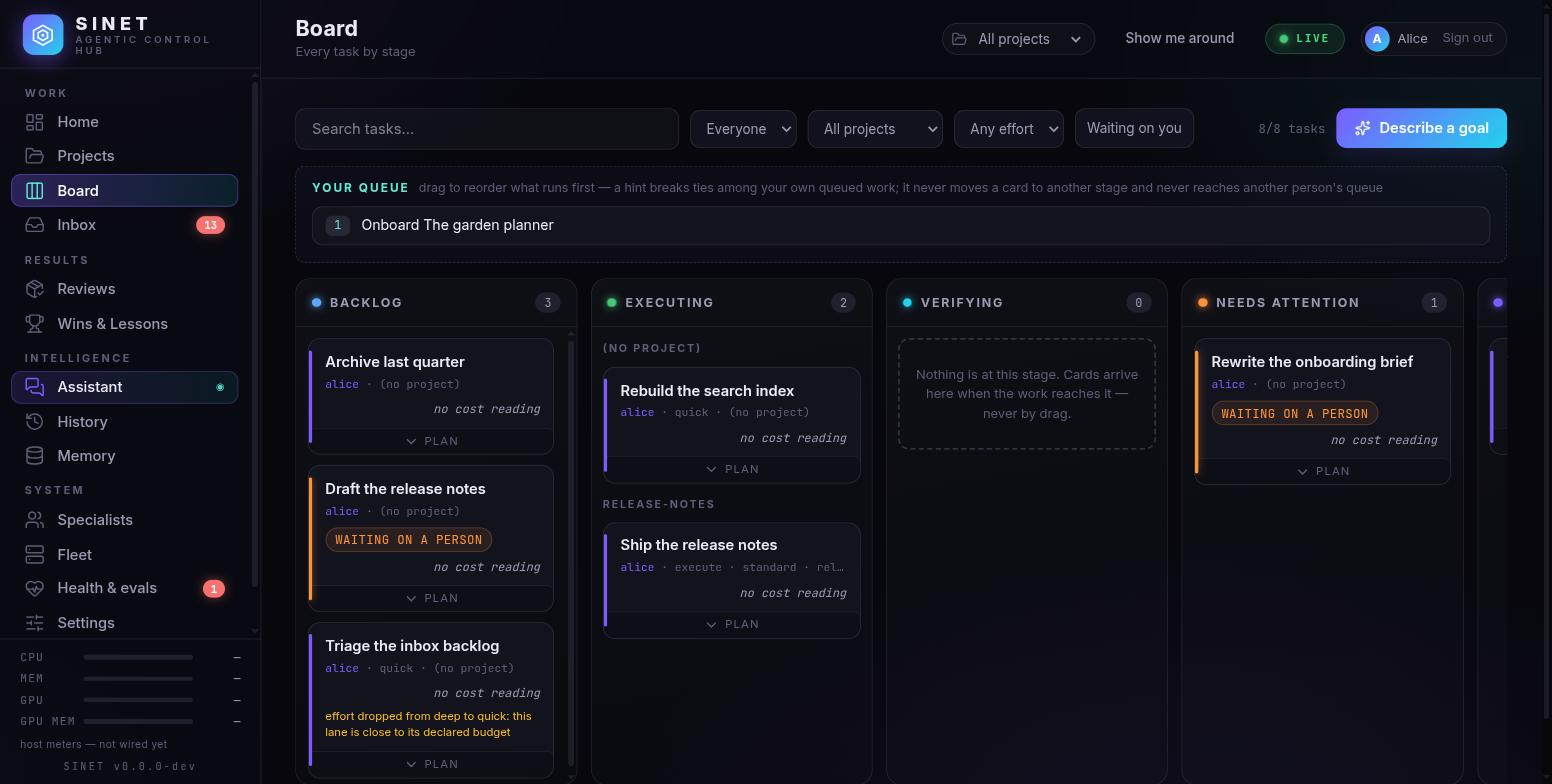
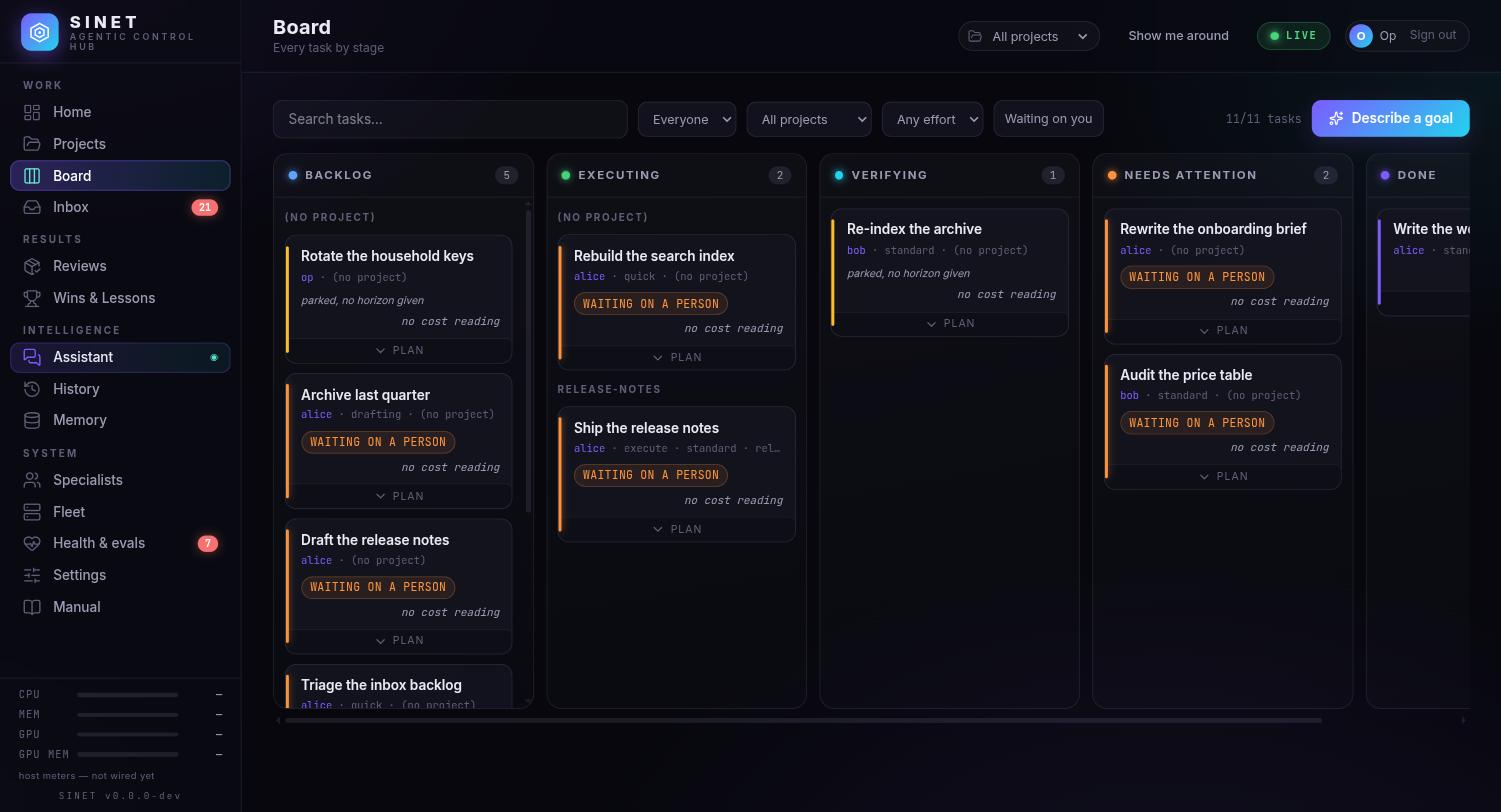
P3 rework step 2 (checkpoint-3 world): journey re-walked on the remedied tree; operator-facing copy tells the inert-seed truth
Live Chrome walk on the RW-4..7 tree (c5e15e5), fresh --clean world:
- create project (garden-guide) -> onboarding task born in Backlog NAMED
  under its project, lands visibly in Done at approval (RW-7 as pixels;
  two NEW shots: board-backlog-onboarding, board-done-onboarding)
- give-work door pinned via the project button; interview walked at
  human pace: 4 rounds over ~11 min spanning three 5-min recovery
  sweeps, run alive throughout (RW-5 as lived behavior)
- second goal force-proceeded -> plan card (assumptions listed, honest
  cost + degraded-marked seat) -> PIN step-up approve -> board rode
  executing->verifying->Done under GARDEN-GUIDE -> overlay card with
  stage story, receipts, deliverable revision (16 PNGs refreshed,
  4 new; 4 stand unchanged)

Copy: B6-clickthrough.sh step-1/2 and B6-walkthrough.html (joins the
tree; STATE 2026-08-11 names both the builder's in-flight operator
files) now describe the ladder-inert world: 0 running / 0 queued BY
DESIGN, 9 parked with open asks + 1 done, five bounded columns, no
moonshot. The operator's uncommitted script edit stays uncommitted;
only the builder's wording rides this commit.

Board.tsx: card faces render the stage FAMILY - a live intake run
serves its internal FSM step id ("intake.state") where seeded rows
serve plain words; live-walk finding. tsc 0, vitest 710/710.

Backend defects found live are REPORTED, not fixed here (planner
result-text loss + strand, onboard ask served without an action
[…]

diff --git a/P3/gates/B6-walkthrough.html b/P3/gates/B6-walkthrough.html
@@ -1,0 +1,293 @@
+<!doctype html>
+<html lang="en">
+<head>
+<meta charset="utf-8">
+<meta name="viewport" content="width=device-width, initial-scale=1">
+<title>B6 click-through — operator walkthrough</title>
+<style>
+  :root {
+    color-scheme: light dark;
+    --bg: #ffffff; --fg: #16181d; --muted: #5d6570; --line: #dfe3e8;
+    --card: #f7f8fa; --accent: #1f6feb; --good: #1a7f37; --bad: #b42318;
+    --warn: #8a5a00; --warn-bg: #fff8e6;
+  }
+  @media (prefers-color-scheme: dark) {
+    :root {
+      --bg: #0f1115; --fg: #e6e8eb; --muted: #99a1ad; --line: #272b33;
+      --card: #171a20; --accent: #6aa4ff; --good: #4ac26b; --bad: #ff6b5e;
+      --warn: #e8b339; --warn-bg: #221c0d;
+    }
+  }
+  * { box-sizing: border-box; }
+  body {
+    margin: 0; padding: 2.5rem 1.25rem 5rem; background: var(--bg); color: var(--fg);
+    font: 16px/1.6 ui-sans-serif, system-ui, -apple-system, "Segoe UI", sans-serif;
+  }
+  main { max-width: 62rem; margin: 0 auto; }
+  h1 { font-size: 1.75rem; margin: 0 0 .35rem; letter-spacing: -.02em; }
+  h2 { font-size: 1.15rem; margin: 2.5rem 0 .75rem; letter-spacing: -.01em; }
+  .sub { color: var(--muted); margin: 0 0 2rem; }
+  code, .mono { font-family: ui-monospace, SFMono-Regular, Menlo, Consolas, monospace; font-size: .875em; }
+  a { color: var(--accent); }
+  .box { background: var(--card); border: 1px solid var(--line); border-radius: 10px; padding: 1rem 1.15rem; margin: 1rem 0; }
+  .warn { background: var(--warn-bg); border-color: var(--warn); }
+  .warn b { color: var(--warn); }
+  table { border-collapse: collapse; width: 100%; margin: .75rem 0; }
+  th, td { text-align: left; padding: .5rem .6rem; border-bottom: 1px solid var(--line); vertical-align: top; }
+  th { font-size: .78rem; text-transform: uppercase; letter-spacing: .06em; color: var(--muted); font-weight: 600; }
+  .scroll { overflow-x: auto; }
+  ol.steps { list-style: none; counter-reset: s; padding: 0; margin: 0; }
+  ol.steps > li {
+    counter-increment: s; position: relative; padding: 1rem 0 1rem 3.25rem;
+    border-top: 1px solid var(--line);
+  }
+  ol.steps > li::before {
+    content: counter(s); position: absolute; left: 0; top: 1rem;
+    width: 2.15rem; height: 2.15rem; border-radius: 50%; background: var(--card);
+    border: 1px solid var(--line); display: grid; place-items: center;
+    font-variant-numeric: tabular-nums; font-weight: 600; color: var(--muted);
+  }
+  ol.steps > li.done::before { background: var(--good); border-color: var(--good); color: #fff; }
+  .head { display: flex; flex-wrap: wrap; gap: .5rem .75rem; align-items: baseline; }
+  .head h3 { margin: 0; font-size: 1rem; }
+  .look { margin: .45rem 0 0; }
+  .look li { margin: .2rem 0; }
+  .look .yes::marker { color: var(--good); }
+  .look .no::marker { color: var(--bad); }
+  label.chk { display: inline-flex; align-items: center; gap: .4rem; color: var(--muted); font-size: .85rem; cursor: pointer; margin-left: auto; }
+  .pin { font-size: 1.05rem; }
+  .pin b { font-size: 1.15rem; letter-spacing: .02em; }
+  footer { margin-top: 3rem; padding-top: 1.25rem; border-top: 1px solid var(--line); color: var(--muted); font-size: .9rem; }
+</style>
+</head>
+<body>
+<main>
+
+<h1>B6 click-through — operator walkthrough</h1>
+<p class="sub">
+  Everything you need to run the gate without looking anything up. The throwaway
+  control plane runs at <code id="base">http://127.0.0.1:8483</code> — every link below points there.
+  Production (8481/8482) is untouched throughout.
+</p>
+
+<div class="box pin">
+  <p style="margin:0 0 .5rem"><b>Signing in.</b> Three seeded people, one shared demo PIN:</p>
+  <div class="scroll"><table>
+    <tr><th>User</th><th>Role</th><th>PIN</th><th>Why you would sign in as them</th></tr>
+    <tr><td class="mono">alice</td><td>member</td><td class="mono"><b>hunter2hunter</b></td><td>owns every deliverable and every chat session in the seed</td></tr>
+    <tr><td class="mono">op</td><td>operator</td><td class="mono"><b>hunter2hunter</b></td><td>the operator-tier view of approvals</td></tr>
+    <tr><td class="mono">bob</td><td>member</td><td class="mono"><b>hunter2hunter</b></td><td>a second member, for owner-scoping checks</td></tr>
+  </table></div>
+  <p style="margin:.5rem 0 0; color:var(--muted); font-size:.9rem">
+    You start under the <b>dev fallback</b> — browsable with no PIN, but it is nobody in
+    particular, so <code>/chat</code> is empty until you sign in as alice. That is correct, not a defect.
+    Use <b>Sign in</b> in the header.
+  </p>
+</div>
+
+<h2>The walk — eleven surfaces, in order</h2>
+
+<ol class="steps">
+
+<li>
+  <div class="head"><h3><a href="http://127.0.0.1:8483/">Mission control</a></h3>
+  <label class="chk"><input type="checkbox"> done</label></div>
+  <p class="look"><b>0 running and 0 queued — by design.</b> Everything seeded either waits on a person
+    (9 parked runs with open asks — the "waiting on you" count and the inbox link) or is already done (1).
+    Nothing seeded is dispatchable, so a zero here is the honest reading, not a broken feed.</p>
+  <ul class="look">
+    <li class="no">Defect: a meter shows a confident number it cannot know. Absence must read as absence.</li>
+    <li class="no">Defect: anything claiming to be running or executing right now.</li>
+  </ul>
+</li>
+
+<li>
+  <div class="head"><h3><a href="http://127.0.0.1:8483/board">The live board</a></h3>
+  <label class="chk"><input type="checkbox"> done</label></div>
+  <p class="look">Ten seeded tasks across five real columns — <b>Backlog · Executing · Verifying ·
+    Needs attention · Done</b> — grouped by project, horizontally scrolling, never wrapping.
+    Every task sits in a declared column; nine carry a <i>waiting on a person</i> chip because their
+    runs are parked on open asks, one is in Done. There is no "moonshot" column any more — that was
+    a test artifact, and it left the demo world.</p>
+  <ul class="look">
+    <li class="yes">Executing/Verifying columns hold parked tasks whose <i>stage</i> is executing/verifying —
+      the chip on the card, not the column, says nothing is actually running.</li>
+  </ul>
+</li>
+
+<li>
+  <div class="head"><h3><a href="http://127.0.0.1:8483/tasks/t-ship">Task detail — <span class="mono">t-ship</span></a></h3>
+  <label class="chk"><input type="checkbox"> done</label></div>
+  <p class="look">
+    <b>Open this task specifically.</b> Of the ten seeded tasks, only <code>t-ship</code> ("Ship the
+    release notes") and <code>t-brief</code> carry deliverables. Scroll to its <b>Deliverables</b>
+    section — six rows, and that section is the door to step 9.
+  </p>
+  <ul class="look">
+    <li class="yes">On any other task, "This task has produced no deliverables yet" is the correct answer.</li>
+  </ul>
+</li>
+
+<li>
+  <div class="head"><h3><a href="http://127.0.0.1:8483/fleet">Fleet</a></h3>
+  <label class="chk"><input type="checkbox"> done</label></div>
+  <p class="look">Per-person and per-model meters, budget remainders.</p>
+  <ul class="look">
+    <li class="yes">These render the <b>real</b> stores' answers here, not the fixture doubles — so figures
+      may be absent where the committed fixture bodies show one. That difference is honest.</li>
+  </ul>
+</li>
+
+<li>
+  <div class="head"><h3><a href="http://127.0.0.1:8483/inbox">The approval inbox</a></h3>
+  <label class="chk"><input type="checkbox"> done</label></div>
+  <p class="look">Ranked cards with tier mechanics. The seed includes a conformance card
+    (high tier, answerable) and an effect card that is deliberately <b>not</b> answerable by you —
+    it is its owner's decision, and the card says so.</p>
+  <ul class="look">
+    <li class="no">Defect: a card that looks answerable but has no working answer, or a
+      not-answerable card that fails to say why.</li>
+  </ul>
+</li>
+
+<li>
+  <div class="head"><h3><a href="http://127.0.0.1:8483/settings">Settings</a></h3>
+  <label class="chk"><input type="checkbox"> done</label></div>
+  <p class="look">Every setting, generated from the registry: clamp bounds, restart badges, audit history.</p>
+</li>
+
+<li>
+  <div class="head"><h3>Settings → "This device"</h3>
+  <label class="chk"><input type="checkbox"> done</label></div>
+  <p class="look">The push-enrolment panel, on the same settings page.</p>
+</li>
+
+<li>
+  <div class="head"><h3><a href="http://127.0.0.1:8483/chat">Chat</a></h3>
+  <label class="chk"><input type="checkbox"> done</label></div>
+  <p class="look">Empty under the dev fallback. <b>Sign in as alice</b> (PIN above) and the seeded
+    sessions appear. Checking both states is the point of this step.</p>
+</li>
+
+<li>
+  <div class="head"><h3>The review surface — seven deliverables</h3>
+  <label class="chk"><input type="checkbox"> done</label></div>
+  <p class="look">This is the one the gate leans on. Each deliverable proves a different part of it.
+    <b>Start with <span class="mono">d-site</span></b> — it is the side-by-side diff.</p>
+  <div class="scroll"><table>
+    <tr><th>Open</th><th>Type</th><th>What it must show</th></tr>
+    <tr>
+      <td><a class="mono" href="http://127.0.0.1:8483/deliverables/d-site">d-site</a></td>
+      <td>code</td>
+      <td><b>The real line diff</b> across two revisions of <code>site/release.tsx</code> plus a deleted
+        <code>site/legacy.tsx</code>. The toggle is labelled <b>"Side by side"</b> (the default) and
+        <b>"Inline"</b> — not split/unified. Seven comments carry their placement status across the
+        revision hop: exact line anchors, file-level fallbacks where the line moved, and one that
+        lost its file entirely. One is already consumed by round 2.</td>
+    </tr>
+    <tr>
+      <td><a class="mono" href="http://127.0.0.1:8483/deliverables/d-hero">d-hero</a></td>
+      <td>image</td><td>The image pair — 2-up first, swipe one click away.</td>
+    </tr>
+    <tr>
+      <td><a class="mono" href="http://127.0.0.1:8483/deliverables/d-bundle">d-bundle</a></td>
+      <td>binary</td><td>Metadata cards and a hash verdict. No diff is possible, and it must say so
+        rather than show an empty frame.</td>
+    </tr>
+    <tr>
+      <td><a class="mono" href="http://127.0.0.1:8483/deliverables/d-brief">d-brief</a></td>
+      <td>pdf</td><td>Deliberately not-a-PDF bytes → the <b>labeled extraction-failure degrade</b>.
+        A defined answer, never a refusal or a crash.</td>
+    </tr>
+    <tr>
+      <td><a class="mono" href="http://127.0.0.1:8483/deliverables/d-notebook">d-notebook</a></td>
+      <td>notebook</td><td>The extracted-text comparison.</td>
+    </tr>
+    <tr>
+      <td><a class="mono" href="http://127.0.0.1:8483/deliverables/d-notes">d-notes</a></td>
+      <td>text</td><td>Already <b>accepted</b> — so the accept door is closed. That closed state is
+        what this one is for.</td>
+    </tr>
+    <tr>
+      <td><a class="mono" href="http://127.0.0.1:8483/deliverables/d-changelog">d-changelog</a></td>
+      <td>text</td><td><b>One revision only</b>, so there is nothing to diff. Correct, not a defect —
+        but it must explain itself rather than render blank.</td>
+    </tr>
+  </table></div>
+  <p class="look">Also on <span class="mono">d-site</span>: <b>Accept</b> opens the accept card
+    (trailers, content pin, signing posture) and takes the same PIN as above. <b>Spawn a follow-up
+    task</b> is the S13.9 door.</p>
+</li>
+
+<li>
+  <div class="head"><h3><a href="http://127.0.0.1:8483/workforce">Workforce</a></h3>
+  <label class="chk"><input type="checkbox"> done</label></div>
+  <p class="look">The seed composes three workers, so this has rows here. A worker in <code>draft</code>
+    with no active version must say <i>why</i> nothing is equipped, not render an empty card.</p>
+  <ul class="look">
+    <li class="yes">On a genuinely fresh host this page is <b>empty</b>, and that is also correct —
+      "no standing army": machinery is composed when earned.</li>
+  </ul>
+</li>
+
+<li>
+  <div class="head"><h3>Phone width — re-walk 1, 5, 6</h3>
+  <label class="chk"><input type="checkbox"> done</label></div>
+  <p class="look">Narrow the window to a phone width. Phone-complete is a requirement for mission
+    control, the inbox and settings. Diff review and settings-bulk only need to be
+    desktop-comfortable.</p>
+</li>
+
+</ol>
+
+<div class="box warn">
+  <p style="margin:0 0 .4rem"><b>Known before you start — do not debug these.</b></p>
+  <ul style="margin:0; padding-left:1.1rem">
+    <li><b>"Try it out" errors on the code deliverable.</b> It answers
+      <code>{"error":"internal","detail":"project: git worktree: chdir projects/release-notes.git: no such file or directory"}</code>.
+      The seed mints revisions but never creates the project repository a preview launches from.
+      S13.8 requires every type to answer a <i>defined</i> state (no-preview, requires-container-tier),
+      so a raw internal error leaking a filesystem path is a finding for question C below — already
+      logged, not yours to chase.</li>
+    <li><b>Meters and the price table differ from the committed fixtures.</b> They render the real
+      stores' answers here; the fixture world's doubles cannot reach a throwaway binary. Honest difference.</li>
+    <li><b>The tour and first-use hints are app behaviour, not seed data.</b> "Show me around" in the
+      header starts the tour; hints re-appear on a full reload.</li>
+  </ul>
+</div>
+
+<h2>What the gate needs from you afterwards</h2>
+<div class="box">
+  <p style="margin:0 0 .5rem">In your own words — free text is fine and is authoritative:</p>
+  <ol style="margin:0; padding-left:1.2rem">
+    <li><b>Did anything look wrong, ugly, or confusing?</b> Taste counts. The report specifically asks
+      you to rule on relative-vs-UTC timestamps, and on whether the bundle feels heavy on a phone.</li>
+    <li><b>Did any surface fabricate a number</b> instead of saying it did not know?</li>
+    <li><b>Did any control look pressable but do nothing?</b></li>
+    <li><b>Anything missing</b> you expected to be there?</li>
+  </ol>
+</div>
+
+<footer>
+  <p>Written 2026-08-05 against the seeded world the click-through builds. The IDs above are the
+  seed's own names; <code>P3/gates/B6-clickthrough.sh</code> reads them back out of the running
+  instance and prints the same list, so if the seed ever changes, <b>the script's printout wins</b>.</p>
+  <p>Logs: <code>~/.sinet-b6-clickthrough/control.log</code> · Reset: <code>./P3/gates/B6-clickthrough.sh --clean</code>
+  · Non-default port: set <code>SINET_CLICKTHROUGH_PORT</code> and the links above need the same port.</p>
+</footer>
+
+</main>
+<script>
+  // Tick-boxes survive a reload, because this walk takes longer than one sitting.
+  document.querySelectorAll('ol.steps > li').forEach((li, i) => {
+    const box = li.querySelector('input[type=checkbox]');
+    if (!box) return;
+    const key = 'b6-walk-' + i;
+    const paint = () => li.classList.toggle('done', box.checked);
+    box.checked = localStorage.getItem(key) === '1';
+    paint();
+    box.addEventListener('change', () => { localStorage.setItem(key, box.checked ? '1' : '0'); paint(); });
+  });
+</script>
+</body>
+</html>

diff --git a/web/src/Board.tsx b/web/src/Board.tsx
@@ -456,7 +456,12 @@ export function BoardCard({ task, showProject }: { task: TaskListItem; showProje
         <span className="task-title">{task.title !== '' ? task.title : task.task_id}</span>
         <span className="task-under mono">
           <Owner id={task.owner} />
-          {run?.stage !== undefined && run.stage !== '' && <> · {run.stage}</>}
+          {/* The stage token, at card-face altitude: a live intake run serves its
+              internal FSM step id ("intake.state") where seeded stages serve plain
+              words ("execute", "drafting") — the face shows the stage FAMILY (the
+              segment before the dot, verbatim otherwise); the overlay's stage story
+              keeps the full step id. Live-walk finding, 2026-08-12. */}
+          {run?.stage !== undefined && run.stage !== '' && <> · {run.stage.split('.')[0]}</>}
           {run?.effort_mode !== undefined && run.effort_mode !== '' && <> · {run.effort_mode}</>}
           {showProject && task.project !== '' && <> · {task.project}</>}
         </span>
